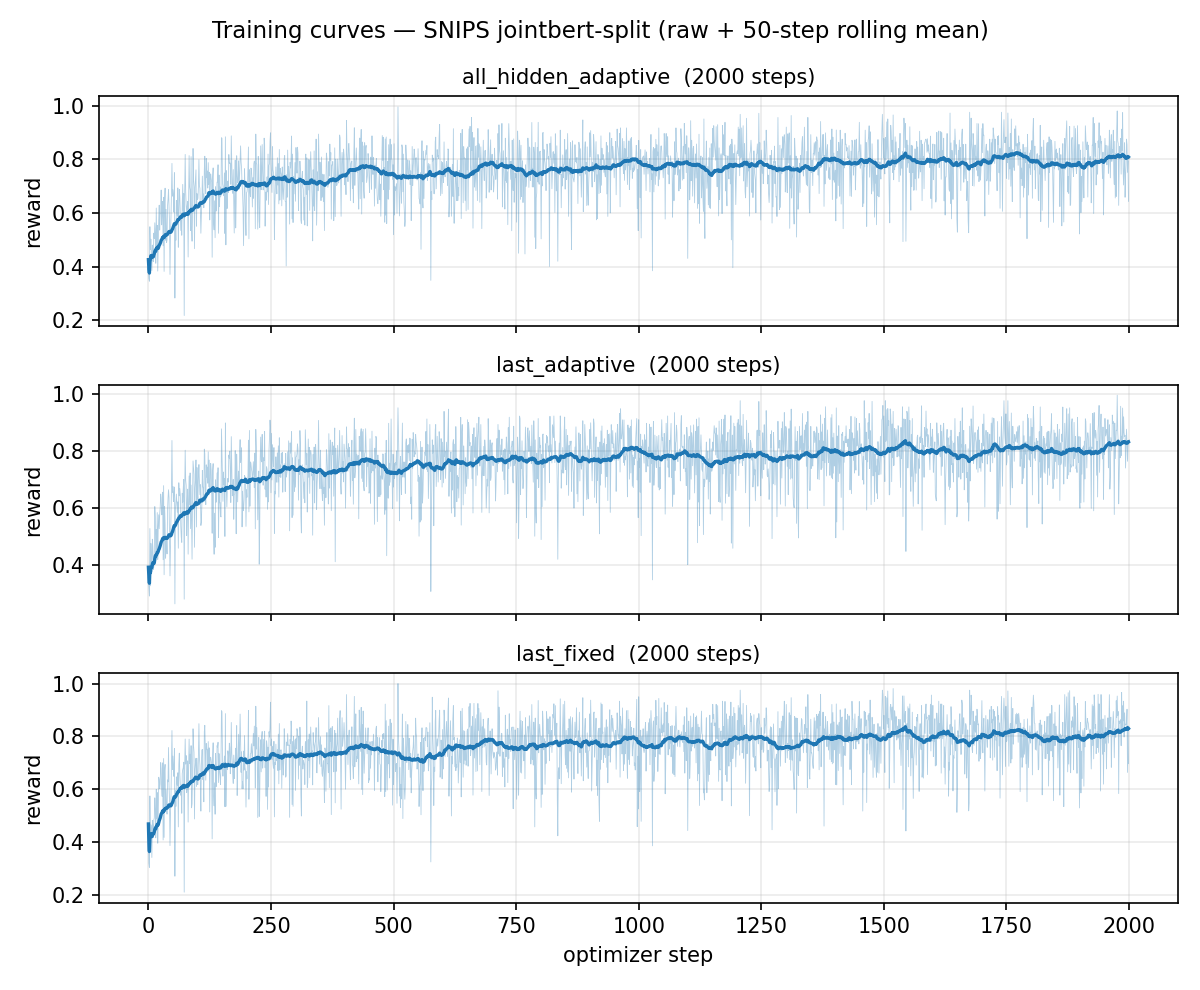
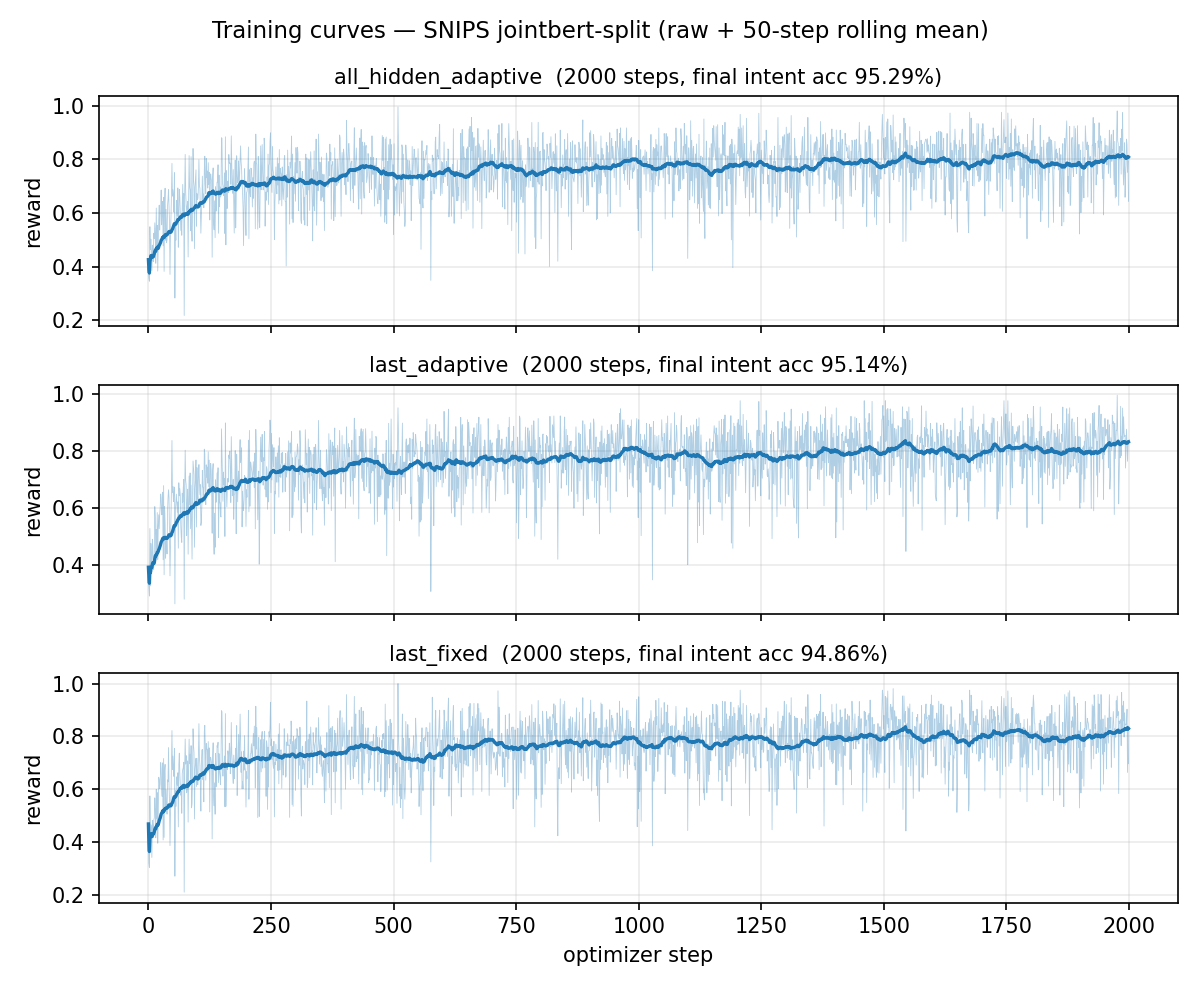
Audit round: dedupe README eval block; fix results-table footnote (GRPO baseline is not the delivery recipe); drop BFCL/supervised residues from leakage-audit.md; point CALIBER at run_songce_*.sh and complete evidence index (randominit, leak docs); fix plot_curves test-score lookup and regenerate an

Changed region(s): [[0.2775, 0.0606, 0.7708, 0.0909], [0.3083, 0.3636, 0.74, 0.3939], [0.3392, 0.6364, 0.74, 0.6667]]

diff --git a/scripts/plot_curves.py b/scripts/plot_curves.py
@@ -15,7 +15,7 @@ For every corpus with evidence, this script writes:
     results/curves-<corpus>.png         one panel per arm: raw reward (thin),
                                          50-step rolling mean (thick), final
                                          intent accuracy annotated when the
-                                         arm's eval-score.txt is present.
+                                         arm's test-score file is present.
 
 Usage:  python scripts/plot_curves.py [--results-dir results]
 """
@@ -28,11 +28,13 @@ def load_arm(arm_dir):
     steps = [r["step"] for r in ev["lambda_stats"]]
     rew = [r["mean_reward"] for r in ev["lambda_stats"]]
     acc = None
-    score = os.path.join(arm_dir, "eval-score.txt")
-    if os.path.exists(score):
-        for line in open(score):
-            if line.startswith("INTENT_ACC="):
-                acc = line.strip().split("=")[1]
+    for fname in ("eval-test-score.txt", "eval-score.txt"):
+        score = os.path.join(arm_dir, fname)
+        if os.path.exists(score):
+            for line in open(score):
+                if line.startswith("INTENT_ACC="):
+                    acc = line.strip().split("=")[1]
+            break
     return ev.get("arm", os.path.basename(arm_dir)), ev.get("steps", len(steps)), steps, rew, acc
 
 

diff --git a/SNIPS/prepare_jointbert.py b/SNIPS/prepare_jointbert.py
@@ -19,7 +19,8 @@ a slot value is the space-joined token span (an exact substring of the
 whitespace-normalized utterance).
 
 Usage:
-  python prepare_jointbert.py --src ../jointbert-snips --out-dir data-jb
+  python prepare_jointbert.py --src ../jointbert-snips \
+      --out-dir data-jbdef4 --definitions
 """
 import argparse, json, os
 

diff --git a/results/EVALUATION_CALIBER.md b/results/EVALUATION_CALIBER.md
@@ -2,7 +2,7 @@
 
 本文件记录交付数字的评测口径（在哪个划分上、按什么协议报数）、
 口径选择的依据、以及支持复现的全部证据文件索引。
-最后更新：2026-10-19（JointBERT test 口径重训后）。
+最后更新：2026-10-20（JointBERT test 口径重训后；补全证据索引）。
 
 ## 1. 任务范围
 
@@ -70,10 +70,12 @@ token-Jaccard≥0.8 匹配为 567/700。）
   prompts-per-step 4、lr 3e-6、max-new-tokens 160、save-every 200，
   其余取默认值：name-credit 0.25、gen-temp 1.0、microbatch 16）；
 - 无续训/补训，无按中间成绩的任何修补，无按中间评测挑 checkpoint；
-- 评测与训练同渲染协议（protocol B，见 README）。
+- 评测与训练同渲染协议（同一 chat 模板与生成参数，由
+  common/bproto.py 统一实现）。
 
 完整命令见 README「复现训练」一节；
-`scripts/run_snips_jointbert.sh` 是三个算法模型串行训练的原始脚本。
+`scripts/run_songce_*.sh` 是三个算法模型串行训练的原始脚本
+（训练服务器布局）。
 
 ## 5. 证据文件索引
 
@@ -82,6 +84,8 @@ results/
   EVALUATION_CALIBER.md            ← 本文件（口径）
   sphere-last-adaptive/            ← 交付模型（97.14%）单次运行证据
     （evidence.json + final-{dev,test}.jsonl 逐例 + 分数文件）
+  randominit/                      ← 训练前模型（A）test 证据
+    （final-test.jsonl 逐例 + 分数文件）
   jointbert-split/                 ← 主口径（test 报数）证据
     <arm>/evidence.json           运行配置 + 每 step 记录（g_ppo、
                                    g_sphere、lambda、mean_reward、
@@ -98,6 +102,8 @@ results/
   official-split/                  ← 附加证据线（官方 validate 口径）
     （各算法同构证据 + base 零样本 + 语料关系取证）
   curves-official-split.png
+  leakage-audit.md                 ← 官方划分数据卫生审计记录
+  leak-postmortem.md               ← 早期 gold 泄漏事后分析
 ```
 
 ## 6. 与 LLM2LLM 数字的关系（如何对照、如何不对照）

diff --git a/results/leakage-audit.md b/results/leakage-audit.md
@@ -1,4 +1,4 @@
-# Data-hygiene audit (2026-10-18, scripts/leakage_audit.py)
+# Data-hygiene audit (2026-10-18)
 
 ## SNIPS (official split, as distributed by snipsco/nlu-benchmark)
 
@@ -11,17 +11,7 @@
 The official SNIPS train/validate split ships with this overlap. 10/700
 exact duplicates bound their contribution to ~1.4% of evaluation items —
 far below the 95% target margin, and identical for every method compared
-in this repo (base, supervised reference, RL arms).
+in this repo (base and the RL models).
 
-## BFCL v4 simple_python (synthetic train vs real eval)
-
-- synth-train=15840, eval=400
-- exact question overlap: **0** (the generator's question-level dedup
-  guard held)
-- eval questions sharing a word 8-gram with synthetic train: **3/400**
-  (0.75%) — all standard mathematical phrasings ("find the area of a
-  triangle with a base of ..."), i.e. the shared n-gram is the canonical
-  way to phrase the underlying math, not a copied evaluation question
-
-Conclusion: no material train→eval leakage in either dataset under
-exact, near-duplicate, and 8-gram tests.
+Conclusion: no material train→eval leakage under the exact and
+near-duplicate tests above.

diff --git a/SNIPS/models/MANIFEST.md b/SNIPS/models/MANIFEST.md
@@ -20,7 +20,7 @@
 ## 权重获取
 
 权重为 HF 格式目录（`model.safetensors` + config + tokenizer），随
-送测材料交付；按下方 sha256 清单核对后放置到本目录各子目录（只需
+交付材料提供；按下方 sha256 清单核对后放置到本目录各子目录（只需
 顶层文件，`step*/` 中间检查点不必拷贝）：
 
 ```bash
